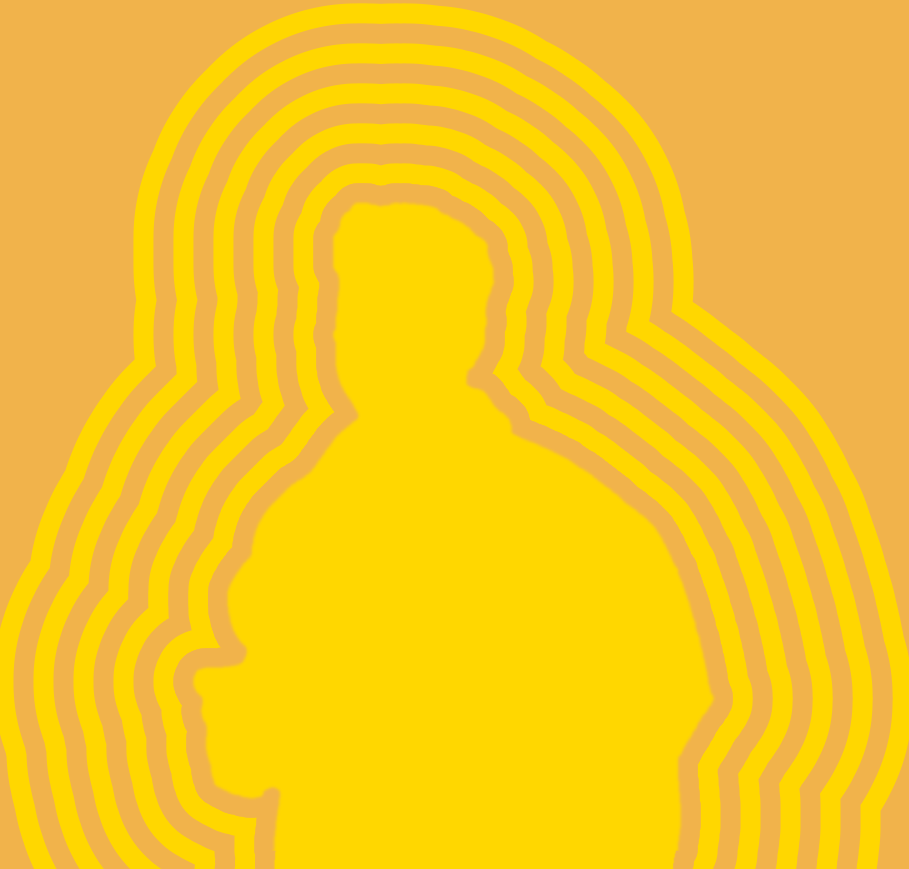
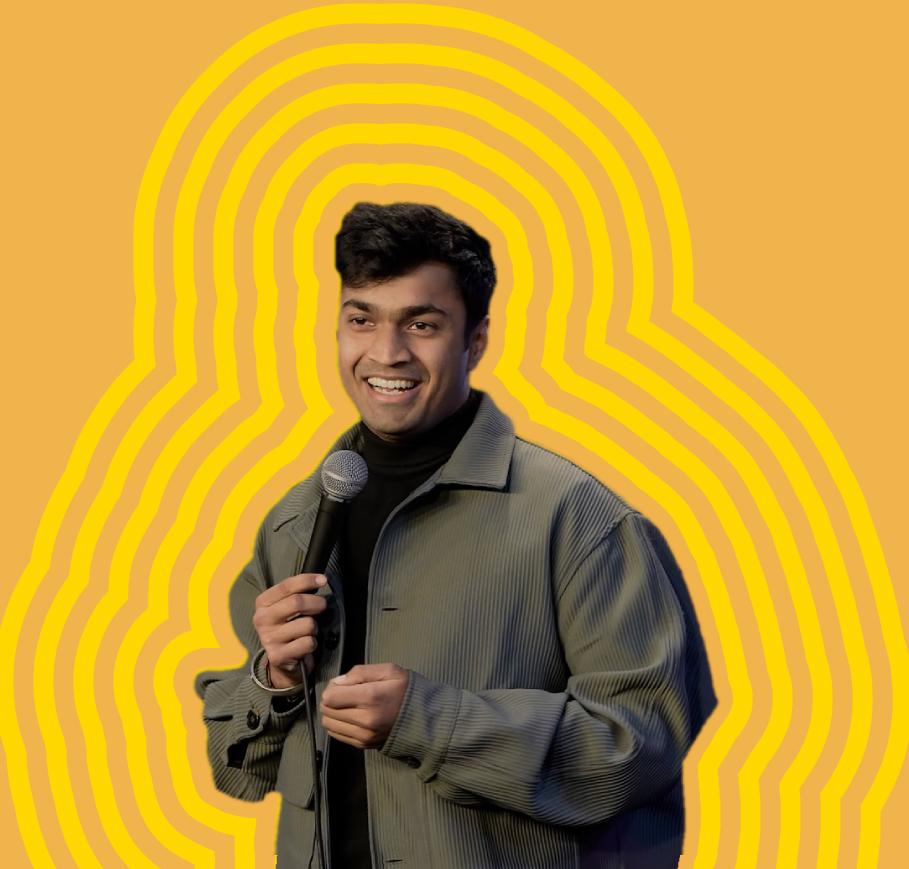
artist revealed

Changed region(s): [[0.2156, 0.2175, 0.8009, 1.0]]

diff --git a/src/pages/Events.jsx b/src/pages/Events.jsx
@@ -117,7 +117,7 @@ const eventData = {
       id: 10,
       title: "Artist Showcase",
       description:
-        "An exiciting showcase of enticing entertainment which you'll regret to miss. Its a secret, not one to dissapoint.",
+        "Welcoming India's Laughter Champion, Rajat Sood to NSUT for an unforgettable performance of comedy and entertainment. Get ready to laugh your heart out with one of India's most talented comedians!",
       location: "TBD",
       timings: "TBD",
       image: "/Images/Events/Artist.png",
